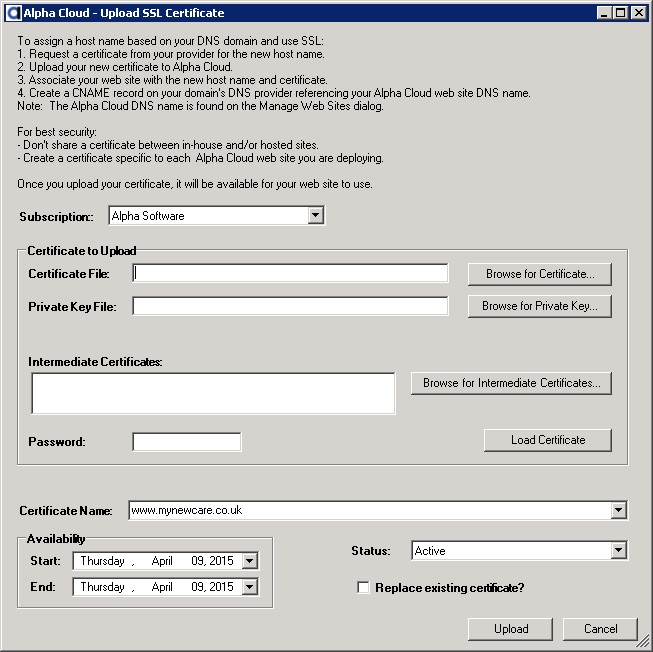
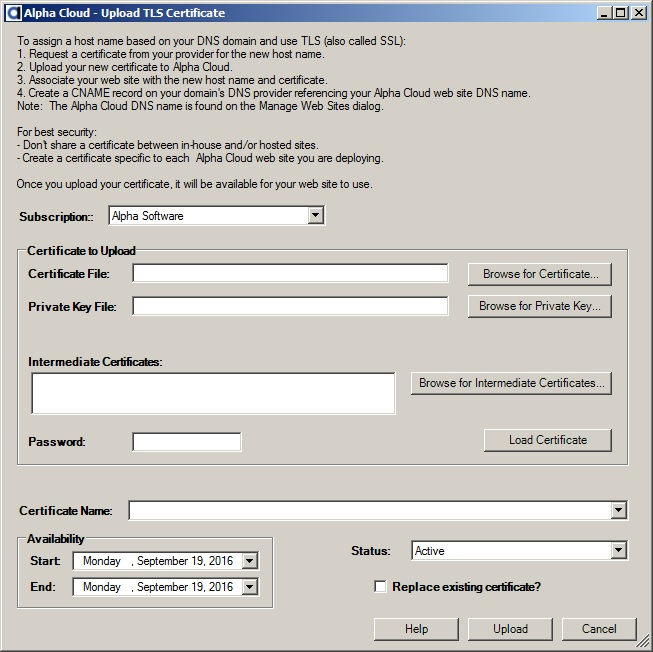
Clean up terminology (host name versus domain name) for certificates. Update screen shots.

diff --git a/helpfiles/Guides/Beta Software/Alpha Cloud/Alpha Anywhere Developers Guide/Domains.html b/helpfiles/Guides/Beta Software/Alpha Cloud/Alpha Anywhere Developers Guide/Domains.html
@@ -18,9 +18,9 @@
 <br/>
 <p>
 <a href="#UnderstandingDomainNames">Understanding Domain Names</a><br/>
-<a href="#AutomaticallyGeneratedDNS">Domain Names Automatically Generated By Alpha Cloud</a><br/>
-<a href="#CustomDNSNames">Creating Your Own Custom Domain Name</a><br/>
-<a href="#UpdatingYourWebSite">Updating Your Alpha Cloud Web Site With Your Custom Domain Name</a><br/>
+<a href="#AutomaticallyGeneratedDNS">Host Names Automatically Generated By Alpha Cloud</a><br/>
+<a href="#CustomDNSNames">Creating Your Own Custom Host Name</a><br/>
+<a href="#UpdatingYourWebSite">Updating Your Alpha Cloud Web Site With Your Custom Host Name</a><br/>
 </p>
 
 <h3><a id="UnderstandingDomainNames">Understanding Domain Names</a></h3><br/>
@@ -28,7 +28,7 @@
 <p>Internet resources, such as web sites, are located using a numeric identifier called an IP address.
 In order to make it easier to find and remember those addresses and make it possible to change addresses easily, a naming registry is used called the <strong>Domain Name System</strong>.
 A <strong>domain name</strong> is a string of labels separated by dots in a very specific format (discussed below).  
-A <strong>host name</strong> is a domain name that has one or more IP addresses associated with it.
+A <strong>host name</strong> is a string of labels separated by dots in a very specific format (discussed below) combined with a domain name.  
 </p>
 
 <p>The domain name system is organized hierarchically.  
@@ -47,8 +47,8 @@ The most common cases are as follows:</p>
 		You can also specify the name of a machine as the final component of the hierarchy.</li>
 </ul><br/>
 
-<p>The full domain name used to look up the internet address of a server or service is formatted by combining all of the parts and separating each of them with a dot.
-The domain name is formatted from the bottom of the hierarchy to the top.  
+<p>The full host name, used to look up the internet address of a server or service, is formatted by combining all of the parts and separating each of them with a dot.
+The host name is formatted from the bottom of the hierarchy to the top.  
 This means that the service or machine name is on the left followed by its parent subdomain and so on up to the top-level domain name.
 </p>
 <p>For example:</p>
@@ -58,11 +58,11 @@ This means that the service or machine name is on the left followed by its paren
 	<li>www.accounting.mycompany.com</li>
 	<li>mymachine.mycompany.com</li>
 </ul><br/>
-<p><strong>Note:</strong> The names are usually represented in lower case, although the domain name system is case-insensitive.</p>
+<p><strong>Note:</strong> The names are usually represented in lower case, although the host name system is case-insensitive.</p>
 
 
-<h3><a id="AutomaticallyGeneratedDNS">Domain Names Generated By Alpha Cloud</a></h3><br/>
-<p>Alpha Cloud automatically generates a domain name entry suitable for testing your deployed web site from the internet.  
+<h3><a id="AutomaticallyGeneratedDNS">Host Names Generated By Alpha Cloud</a></h3><br/>
+<p>Alpha Cloud automatically generates a host name entry suitable for testing your deployed web site from the internet.  
 To keep the name fairly readable and predictable, Alpha Cloud generates the name as follows:
 </p>
 <ol>
@@ -74,7 +74,7 @@ To keep the name fairly readable and predictable, Alpha Cloud generates the name
 		For example if your web site name is "Production", your web site key might be "production".
 		Again, once the site key is generated, it is kept the same for a web site.
 		</li>
-	<li><strong>Domain Names</strong> - For each web site you deploy, a domain name is generated using the subscription key, the web site key and the Alpha Cloud subdomain in the format below:<br/><br/>
+	<li><strong>Host Names</strong> - For each web site you deploy, a host name is generated using the subscription key, the web site key and the Alpha Cloud subdomain in the format below:<br/><br/>
 		<p class="tab">&lt;subscription key&gt;-&lt;web site key&gt;.&lt;Alpha Cloud subdomain&gt;</p>
 		<p>For example:</p>
 		<p class="tab">mycompany-production.cloud.alphasoftware.com</p>
@@ -85,7 +85,7 @@ To keep the name fairly readable and predictable, Alpha Cloud generates the name
 </p>
 		
 
-<h3><a id="CustomDNSNames">Creating Your Own Custom Domain Name</a></h3><br/>
+<h3><a id="CustomDNSNames">Creating Your Own Custom Host Name</a></h3><br/>
 
 
 <p>
@@ -104,61 +104,63 @@ While we cannot recommend any specific registrar, some of the more commonly used
 Each registrar will have their own signup process so you will want to start with their web site and proceed from there.
 </p>
 
-<h4><a id="CreatingDNSNames">Creating Your Own Custom Domain Name</a></h3><br/>
+<h4><a id="CreatingDNSNames">Creating Your Own Custom Host Name</a></h3><br/>
 
-<p>Once you have registered your domain, you will need to create a domain name for your site (the name that you want your users to enter as part of the URL for your web site).
+<p>Once you have registered your domain, you will need to create a host name for your site (the name that you want your users to enter as part of the URL for your web site).
 The most common prefix for a web site is, of course, "www".  
 If this interferes with another site on your domain, you can create an alternative host name or create a new domain specific to your deployed web site.
 </p>
 
-<p>You will need to work with your registrar to create a link between your domain name and the actual site running on Alpha Cloud.
-This is done by creating a record in the domain registry that connects the name you want your customers to use and the domain name Alpha Cloud generates for you.
+<p>You will need to work with your DNS provider to create a link between your domain name and the actual site running on Alpha Cloud.
+This is done by creating a record in the DNS system that connects the name you want your customers to use and the host name Alpha Cloud generates for you.
+Your DNS provider and your domain registrar may be the same, or separate entities.
+If you are unsure, ask your domain registrar.
 </p>
-<p>Mapping your customer domain name to your Alpha Cloud web site domain name will require that your registrar create a record in their system.  
-Domain name registrars generally support several different record types for domain name management and mapping.
+<p>Mapping your custom host name to your Alpha Cloud web site host name will require that your DNS provider create a record in their system.  
+DNS providers generally support several different record types for host name management and mapping.
 The more common mapping records are:
 </p>
 <dl>
 	<dt><strong>A Records</strong></dt>
-		<dd>The A record maps a domain name directly to an IP version 4  address (IPv4).
-			Using an A record saves a step in the translation from a domain name to an IP address, but at the cost of flexibility.
-			Alpha Cloud does not guarantee that an IP address will be constant over time, so this option is not currently available.
+		<dd>The A record maps a host name directly to an IP version 4  address (IPv4).
+			Using an A record saves a step in the translation from a host name to an IP address, but at the cost of flexibility.
+			Alpha Cloud can not guarantee that an IP address will be constant over time, so this option is not currently available.
 			</dd><br/>
 	<dt><strong>AAAA Records</strong></dt>
-		<dd>The AAAA record maps a domain name directly to an IP version 6 address (IPv6).
-			Using an AAAA record saves a step in the translation from a domain name to an IP address, but at the cost of flexibility.
+		<dd>The AAAA record maps a host name directly to an IP version 6 address (IPv6).
+			Using an AAAA record saves a step in the translation from a host name to an IP address, but at the cost of flexibility.
 			Alpha Cloud does not guarantee that an IP address will be constant over time, so this option is not currently available.
 			</dd><br/>
 	<dt><strong>CNAME Records</strong></dt>
-		<dd>The CNAME record maps a domain name to another domain name rather than an IP address.  
-			In our example your domain name might be "www.mycompany.com".
+		<dd>The CNAME record maps a host name to another host name rather than an IP address.  
+			In our example your host name might be "www.mycompany.com".
 			You would want to map "www.mycompany.com" to "mycompany-production.cloud.alphasoftware.com".
 		</dd>
 </dl><br/>
 <p><strong>Important!</strong></p>
-<p class="tab">You will need to use a <strong>CNAME </strong> record to map your custom domain name to Alpha Cloud's generated domain name.</p>			
+<p class="tab">You will need to use a <strong>CNAME </strong> record to map your custom host name to Alpha Cloud's generated host name.</p>			
 
 <p>
-Your registrar will need to know the full domain name that your customers will use in URLs for your web site and the domain name that your new CNAME record needs to point to (the "value" field).
-You can find the target domain name Alpha Cloud generated for you on the "Manage Web Sites" dialog.
+Your DNS provider will need to know the full host name that your customers will use in URLs for your web site and the host name that your new CNAME record needs to point to (the "value" field).
+You can find the target host name Alpha Cloud generated for you on the "Manage Web Sites" dialog.
 It is labeled "Web Paths:".
 It will look something like:</p>
 <p class="tab">http://mycompany-production.cloud.alphasoftware.com</p>
-<p>The domain name you need to provide to your registrar as the target starts after the "http://" at the beginning and becomes:</p>
+<p>The host name you need to provide to your registrar as the target starts after the "http://" at the beginning and becomes:</p>
 <p class="tab">mycompany-production.cloud.alphasoftware.com</p>
-<p>In this case, if you are using "www.mycompany.com" as your domain name, it would point to "mycompany-production.cloud.alphasoftware.com".</p>
+<p>In this case, if you are using "www.mycompany.com" as your host name, it would point to "mycompany-production.cloud.alphasoftware.com".</p>
 <br/>
 
-<h3><a id="UpdatingYourWebSite">Updating Your Alpha Cloud Web Site With Your Custom Domain Name</a></h3><br/>
+<h3><a id="UpdatingYourWebSite">Updating Your Alpha Cloud Web Site With Your Custom Host Name</a></h3><br/>
 <p>
-After creating the CNAME record for your custom domain name, be sure to update the web site entry in Alpha Cloud with your new custom domain name.
+After creating the CNAME record for your custom host name, be sure to update the web site entry in Alpha Cloud with your new custom host name.
 You will set the "Host Name" field on the web site dialog (in this case to "www.mydomain.com").
 </p>
 <p>
 For information on updating your web site see <a href="Managing Web Sites.html">Managing Web Sites</a>.
 </p>
 <p>
-<strong>Note:</strong> To enable TLS (also called SSL) for your new custom domain you will need to purchase a TLS (also called SSL) certificate and upload it to Alpha Cloud.  
+<strong>Note:</strong> To enable TLS (also called SSL) for your new custom host name you will need to purchase a TLS (also called SSL) certificate and upload it to Alpha Cloud.  
 This is discussed in the section <a href="Certificates.html">Alpha Cloud Certificates</a>.
 </p><br/><br/>
 </body>

diff --git a/helpfiles/Guides/Beta Software/Alpha Cloud/Alpha Anywhere Developers Guide/Certificates.html b/helpfiles/Guides/Beta Software/Alpha Cloud/Alpha Anywhere Developers Guide/Certificates.html
@@ -12,11 +12,11 @@
 <body bgcolor="#ffffff">
 
 <h1>Alpha Cloud - Alpha Anywhere Developer's Guide</h1>
-<h2><a id="Certificates">Managing TLS(SSL) Certificates for Web Sites Accessed From Your Own Domain</a></h2>
+<h2><a id="Certificates">Managing TLS(SSL) Certificates for Web Sites Accessed Using Your Own Domain Name</a></h2>
 <br/>
 <p>
 <a href="#AboutCertificates">About Certificates</a><br/>
-<a href="#AlphaCloudCertificates">Certificates For Alpha Cloud Managed Domain Names</a><br/>
+<a href="#AlphaCloudCertificates">Certificates For Alpha Cloud Managed Host Names</a><br/>
 <a href="#CustomDNS">Using a Custom Domain Name with TLS(SSL)</a><br/>
 <a href="#UploadCertificate">Uploading Certificates</a><br/>
 <a href="#ManageCertificates">Managing Certificates</a><br/>
@@ -37,24 +37,24 @@ In this case, the browser will display a warning message that the certificate is
 Production sites with any need for security (most will have this) will need a TLS (also called SSL) certificate installed on the server that has been signed by a verified certificate authority.
 </p>
 
-<h3><a id="AlphaCloudCertificates">Certificates For Alpha Cloud Managed Domain Names</a></h3><br/>
+<h3><a id="AlphaCloudCertificates">Certificates For Alpha Cloud Managed Host Names</a></h3><br/>
 
-<p>Alpha Cloud automatically generates and manages a domain name for each web site so that you can test your deployed web sites immediately.  
-Domain name generation is discussed in detail in the section <a href="Domains.html">Adding Your Web Sites to Your Own Domain</a>.
+<p>Alpha Cloud automatically generates and manages a host name for each web site so that you can test your deployed web sites immediately.  
+Host name generation is discussed in detail in the section <a href="Domains.html">Adding Your Web Sites to Your Own Domain</a>.
 </p>
 
 <p>
-Alpha Cloud also manages TLS (also called SSL) certification for the automatically generated domain name, so it can be used for both insecure (HTTP) and secure (HTTPS) access to your web site.
+Alpha Cloud also manages TLS (also called SSL) certificates for the automatically generated host name, so it can be used for both insecure (HTTP) and secure (HTTPS) access to your web site.
 </p>
 
 
-<h3><a id="CustomDNS">Using a Custom Domain Name with TLS (also called SSL)</a></h3><br/>
+<h3><a id="CustomDNS">Using a Custom Host Name with TLS (also called SSL)</a></h3><br/>
 <p>
-In most cases you will also want to assign your own domain name to your web site.  
-As discussed in <a href="Domains.html#CustomDNSNames">Creating Your Own Custom Domain Name</a>, you can set up a host name from your own domain.
+In most cases you will also want to assign your own host name to your web site.  
+As discussed in <a href="Domains.html#CustomDNSNames">Creating Your Own Custom Host Name</a>, you can set up a host name from your own domain.
 </p>
 
-<p>You are responsible for purchasing (and periodically renewing) a certificate for your host name in order to support TLS (HTTPS - also called SSL) for your web site when referenced from your own domain name.
+<p>You are responsible for purchasing (and periodically renewing) a certificate for your host name in order to support TLS (HTTPS - also called SSL) for your web site when referenced using your own host name.
 Once you have purchased and downloaded a certificate, you can upload it to Alpha Cloud, and it will be automatically installed on each server that handles requests for your web site.
 </p>
 
@@ -66,7 +66,7 @@ The security of your TLS (also called SSL) certificate, and the private key requ
 If a malicious individual is able to access the private key for your certificate, they can pose as your web site and potentially gain access to confidential information.
 While Alpha Cloud encrypts your certificate in transit and at rest, there is always risk involved when transferring and deploying server side certificates.
 It is important to make sure that any compromise to security is contained.
-Please consider the policies below a minimum of what needs to be done to protect your certificate and your web applications.
+Please consider the policies below as a minimum of what needs to be done to protect your certificate and your web applications.
 </p>
 <ul>
 	<li>Purchase a certificate for each host name (web site) you deploy on the Alpha Cloud. Don't use wild-card certificates. 
@@ -74,6 +74,9 @@ Please consider the policies below a minimum of what needs to be done to protect
 	<li>DO NOT use the same certificate for your own on-site web sites and Alpha Cloud web sites.  
 		A compromise on either site will expose the other site and make it harder to track the cause of the breach.</li>
 	<li>Protect your copy of the certificate, but more importantly the private key that you create when you purchase it.</li>
+	<li>In the event that your private key is compromised or lost, contact your certificate provider immediately!  
+		They will be able to invalidate your current certificate and issue a replacement using a new key
+		</li>
 </ul>
 <br/>
 
@@ -96,11 +99,11 @@ Before you begin, make sure you have your server certificate and private key rea
 Depending on how you created your certificate, the certificate file may be in one of a few formats.  You can tell the format by the extension on the certificate file. Alpha Cloud will load and upload the following formats:
 </p>
 <ul>
-	<li><strong>.pfx.</strong>(also called PKCS#12) - This is a file that contains both the certificate and the private key.
+	<li><strong>.pfx </strong>(also called PKCS#12) - This is a file that contains both the certificate and the private key.
 		If you have the tools to create such a file, it will make the upload process a little easier.
 		</li>
-	<li><strong>.crt</strong> (Microsoft convention) - This file contains only the certificate and you will need to choose a file with the private key in it.</li> 
-	<li><strong>.cer</strong>(Alternate form of .crt files) - This file contains only the certificate and you will need to choose a file with the private key in it.<br/>
+	<li><strong>.crt </strong> - This file contains only the certificate and you will also need to choose a file with the private key in it.</li> 
+	<li><strong>.cer </strong>(Alternate form of .crt files) - This file contains only the certificate and you will need to choose a file with the private key in it.<br/>
 		<br/>
 		<strong>Note:</strong> .crt and .cer files should be encoded in ASCII PEM format (contains a readable header and footer and a base64 encoded body).
 		</li> 
@@ -154,7 +157,10 @@ You will need to provide these certificates at the time you upload your TLS (als
 
 <h3><a id="#ManageCertificates">Managing Certificates</a></h3><br/>
 
-<p>For each unique certificate name (the full host name of the certificate), a header record is created so renewed certificates can be related back to older certificates for the same name.</p>
+<p>For each unique certificate name (the full host name of the certificate), Alpha Cloud can store one or more certificates.  
+This way renewed certificates can be related back to older certificates for the same name.
+When a newer certificate becomes effective, Alpha Cloud will automatically deploy it instead of the older one.
+</p>
 
 <p>You can use the Manage Certificates dialog to view and manage the certificates you have uploaded to the Alpha Cloud for the currently selected subscription.</p>
 <ol>

diff --git a/helpfiles/Guides/Beta Software/Alpha Cloud/Alpha Anywhere Developers Guide/Managing Web Sites.html b/helpfiles/Guides/Beta Software/Alpha Cloud/Alpha Anywhere Developers Guide/Managing Web Sites.html
@@ -53,7 +53,7 @@ the accounting application would be referenced using the URL "http://myhost.myco
 		If you use only the automatically generated DNS name, Alpha Cloud manages both the DNS name and the TLS (also called SSL) certificate.
 		If you set a host name and enable TLS, you must also provide a certificate.
 		</dd>
-	<dt><strong>Certificate</strong></dt><dd>Select a certificate you have uploaded that matches the host name your provided.
+	<dt><strong>Certificate</strong></dt><dd>Select a certificate you have uploaded that matches the host name you provided.
 		If you provide a host name of your own, you must upload a valid certificate in order to support TLS (also called SSL).
 		The certificate will be installed on deployed servers automatically.
 		To upload a new certificate, click on the button entitled "Upload Certificate".
@@ -92,7 +92,7 @@ the accounting application would be referenced using the URL "http://myhost.myco
     <br />
 	<li>To add a new web site, click in the empty row at the bottom of the grid.<br/>
 		<ul>
-			<li>Enter a name for your new web site></li>
+			<li>Enter a name for your new web site.</li>
 			<li>The default status is "Active", but you can choose to create the web site with a "Disabled" status.</li>
 			<li>The default primary contact is the subscription primary contact, but you can change it.</li>
 			<li>Select the values for each of the other properties as described above.</li>
@@ -100,7 +100,7 @@ the accounting application would be referenced using the URL "http://myhost.myco
 	<li>To change the properties of an existing web site, make the changes right in the grid.</li>
 	<li>When you have finished making changes, click "Apply Data" to update the cloud.</li>
 	<li>If you need to upload a certificate, click the button entitled "Upload Certificate".
-		For more information on uploading certificates see <a href="Certificates.html#UploadCertificate">Upload Certificate</a>.
+		For more information on uploading certificates see <a href="Certificates.html#UploadCertificate">Upload Certificates</a>.
 		When you have uploaded your certificate you can set the host name, service and select your new certificate to support TLS (also called SSL) for your own domain name.</li>
 	<li>If you need to create or make changes to a server group, click the button entitled "Manage Server Groups".
 		For more information on server groups, see <a href="Managing Server Groups.html">Managing Server Groups</a>.
